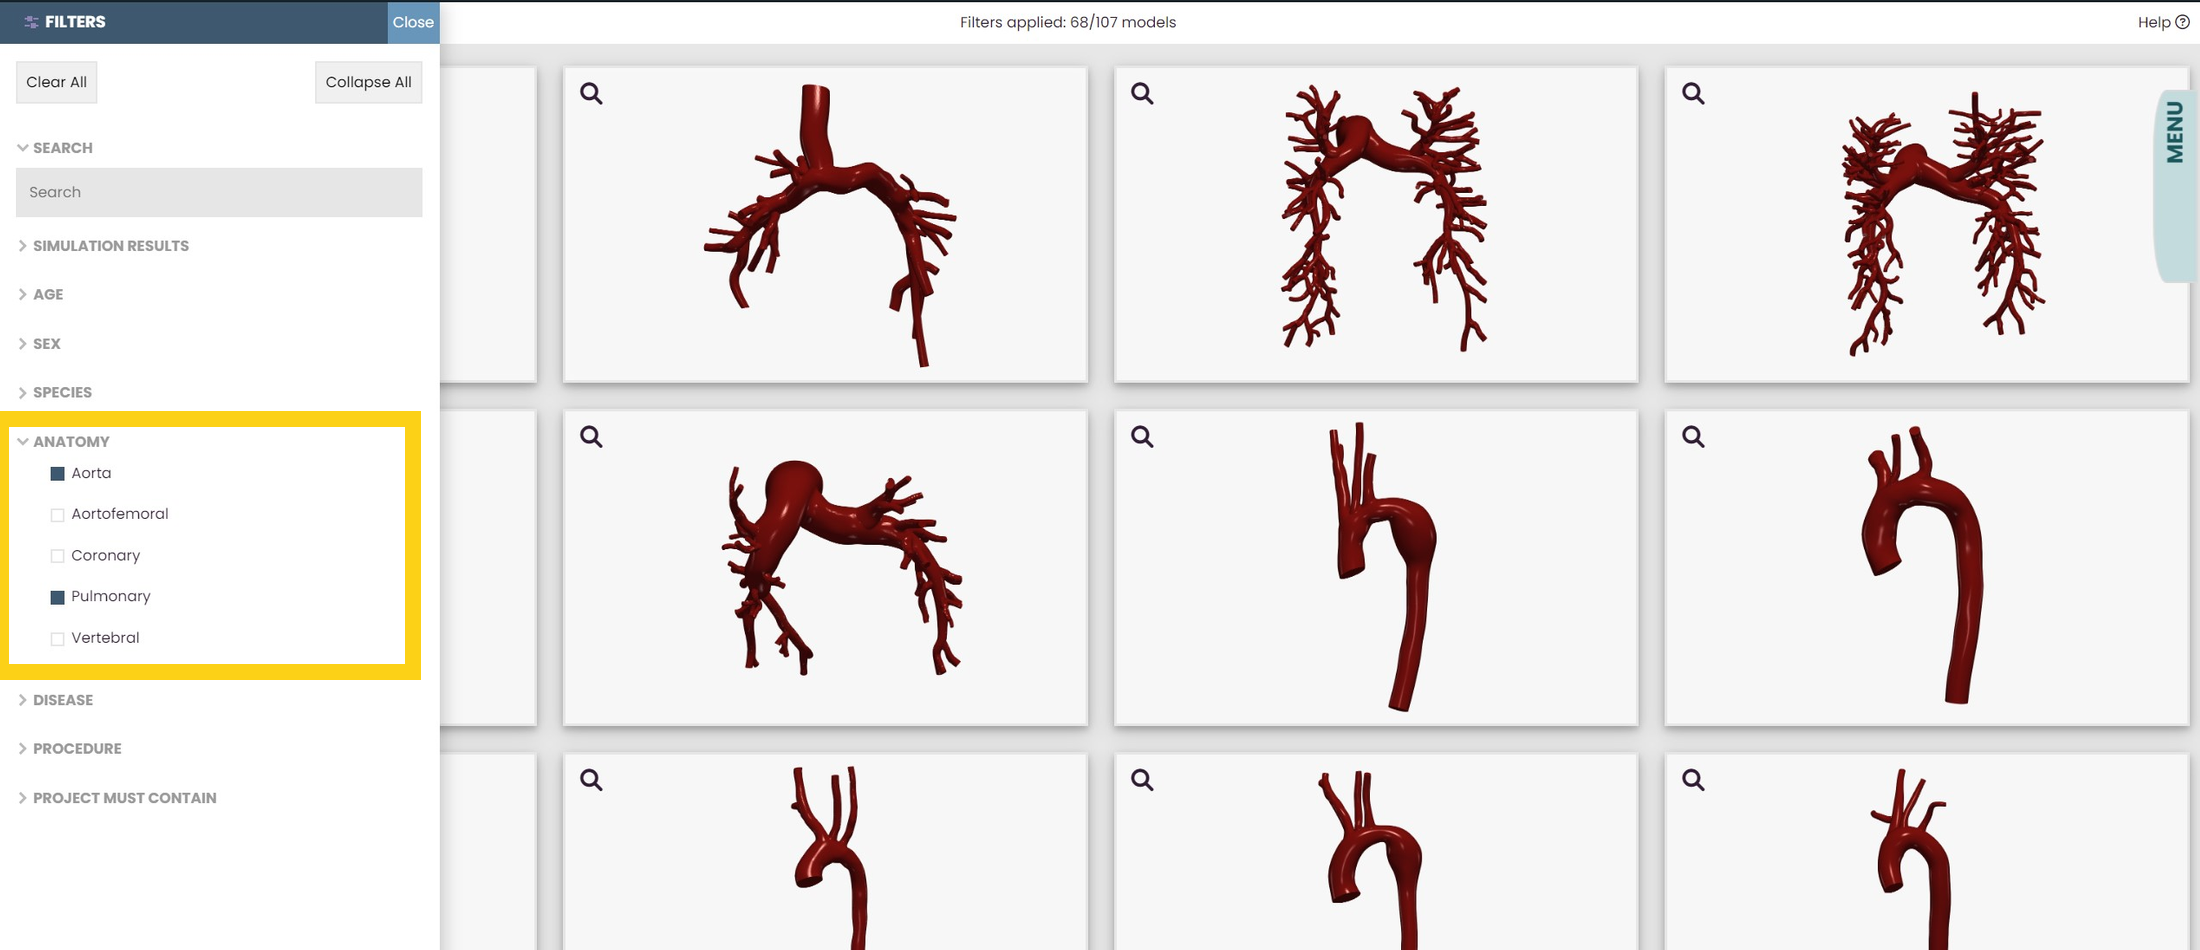
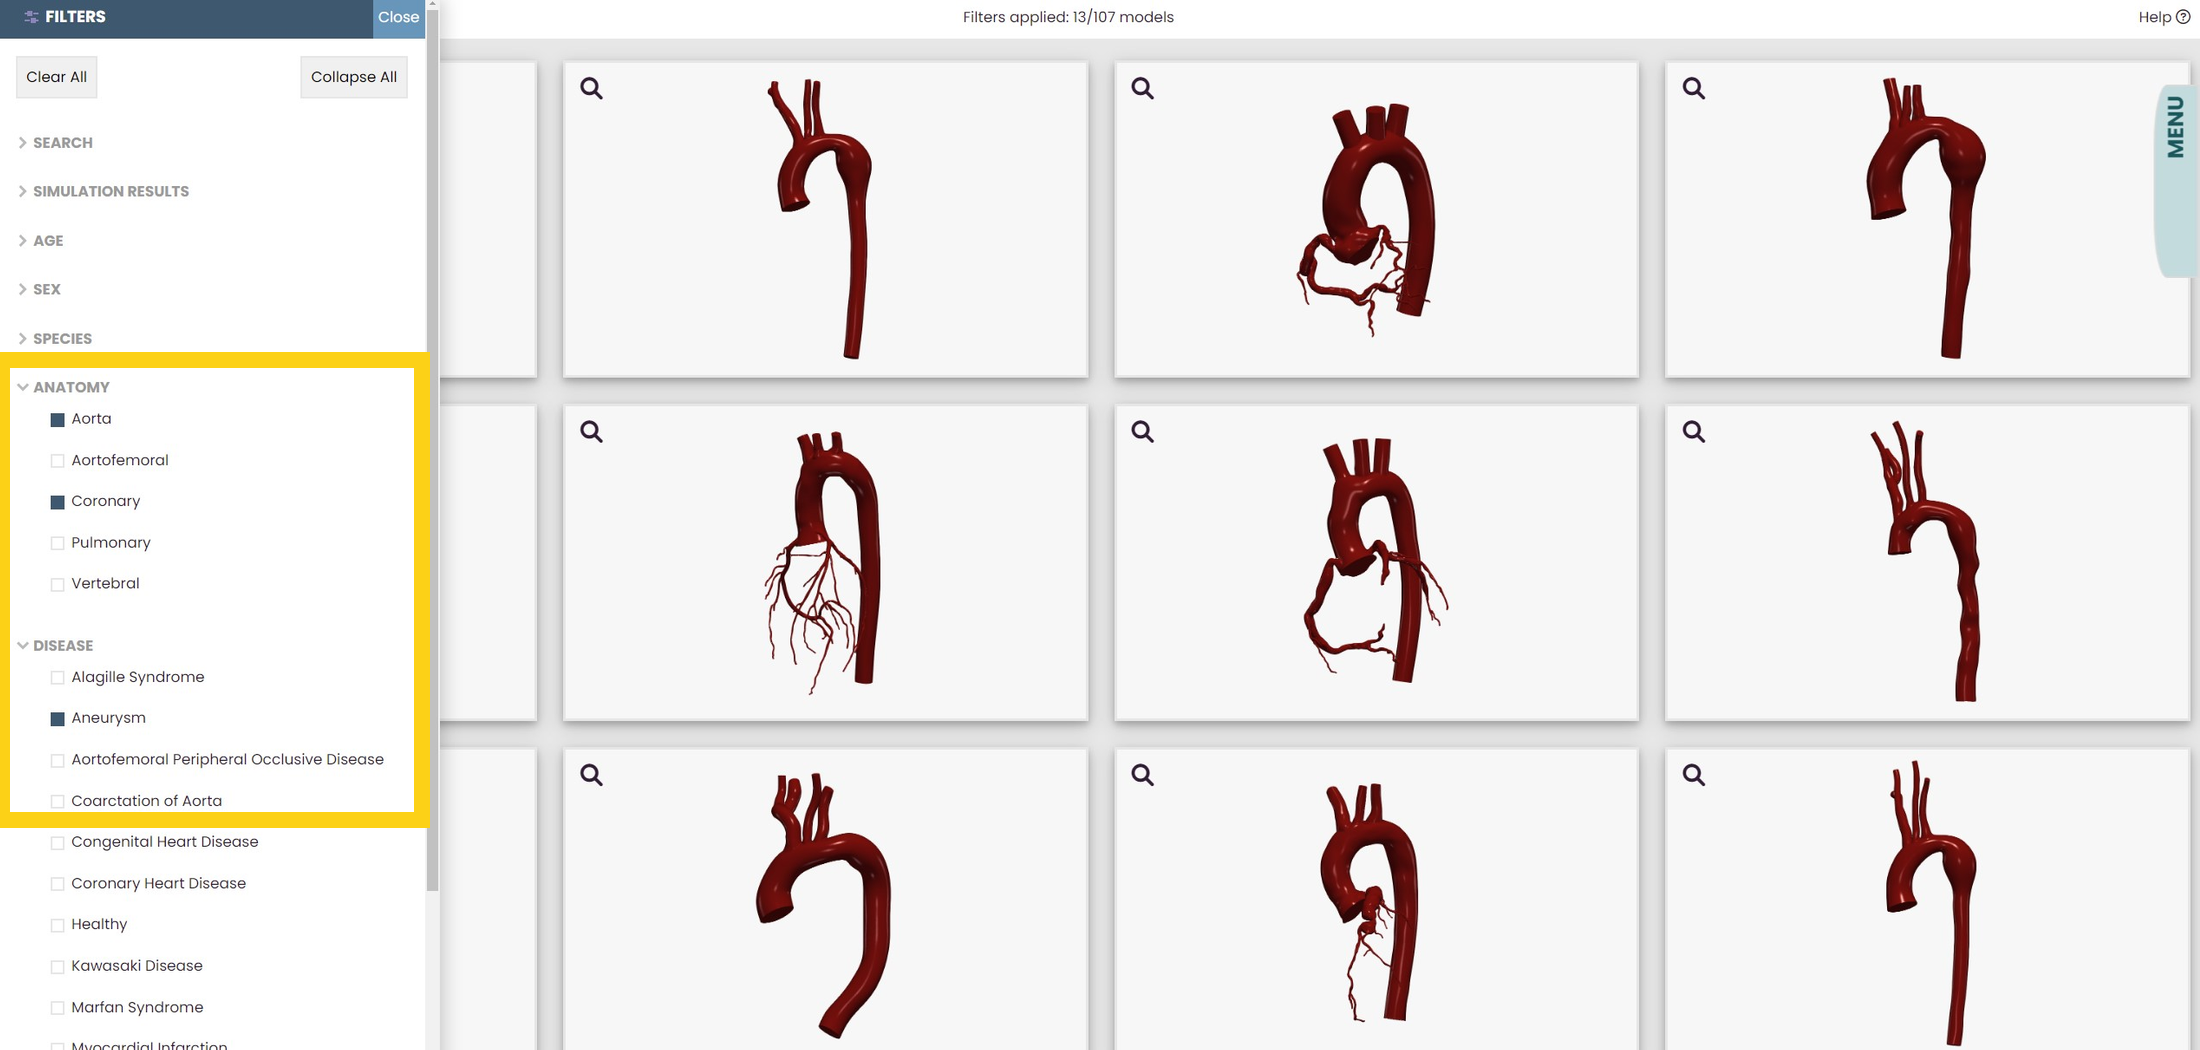
explanation for filters done

Changed region(s): [[0.0, 0.0, 1.0, 1.0], [0.0309, 0.9158, 0.0927, 1.0], [0.9582, 0.2442, 1.0, 0.3053]]

diff --git a/documentation.html b/documentation.html
@@ -100,14 +100,43 @@
   
           <h2 class="title-documentation" id="Using_the_Filters">Using the Filters</h2>
             <h3>Opening the filter menu</h3>
-              <p>Find the word "FILTERS" on the top left of the page and click on it.</p>
-              <img src="img/help/openingPageF.png" alt="Opening Page of Gallery">             
+              <p>To open the filter menu, find the word "FILTERS" on the top left of the page and click on it.</p>
+              <img src="img/help/openingPageF.png" alt="Opening Page of Gallery">
+            <h3>About the filter menu</h3>
+              <h4>The Error Message</h4>
+                <p>If what you are looking for is too specific, an error message may appear. 
+                  If so, it means the specific models you are searching for are not currently avaliable on our repository. 
+                  You may need to enter in fewer specifications into the filter for models to appear in the gallery.</p>
+                <img src="img/help/errorMessageExZ1.jpg" alt="Image of error message.">
+                <img src="img/help/errorMessageExZ2.jpg" alt="Image of what the error message says.">
+                <img src="img/help/errorMessageEx.jpg" alt="Image of how to get an error message.">
+                <p>In the example above, an error message has appeared. This is because the Vascular Model Repository does not currently contain models that are of pulmonary arteries that have undergone the coronary artery bypass graft procedure.</p>
+              <h4>The Clear All Button</h4>
+                <p>If you want to return to the default state of the dataset gallery, click on the Clear All button. It will clear all of the filters that are currently applied.</p>
+                <img src="img/help/clearAllBefore.jpg" alt="Image of what a filled up filter bar looks like.">
+                <img src="img/help/clearAllAfter.jpg" alt="Image of cleared filter bar.">
+              <h4>The Collapse All Button</h4>
+                <p>If you want to collapse all the filter menus, click on the Collapse All Button. It will do so. Clicking this button, however, will not clear the filters that are applied.</p>
+                <img src="img/help/collapseAllBefore.jpg" alt="Image of a filled up filter bar">
+                <img src="img/help/collapseAllAfter.jpg" alt="Image of a collaped filter bar">
+                <p>In the example above, the collapse all button has been pressed, which collapses all the filter headers. The filters remain applied.</p>
             <h3>Looking at the different categories</h3>
               <h4>The Search Bar</h4>
                 <p>With the search bar, you are able to search for specific models. To search for multiple characteristics, add a space between each characteristic. To apply the filter, write in an entry and hit the ENTER key.</p>
                 <img src="img/help/searchBarExZ.jpg" alt="Example of what a search looks like in the search bar">
                 <img src="img/help/searchBarEx.jpg" alt="Full screen of what a search looks like with the search bar">
                 <p>In the example above, the models that are a result of the search bar entry are all male models of aortas that have aneurysms.</p>
+                <p>If you are looking for one specific model, you can search for the name of the model in the search bar.</p>
+              <h4>The Simulation Results Filter</h4>
+                <p>We have ran simulations for some of the models in this repository. They come in <code>.vtu</code> and <code>.vtp</code> files. 
+                  This filter allows you to search for those models.</p>
+                <img src="img/help/simResultsDefault.jpg" alt="Image of default state of simulation results button.">
+                <p>Above is what the default for the simulation results button is. In this state, no models are being filtered for simulation results.</p>
+                <p>To apply this filter, click on the mode you want to be in. If "MUST HAVE" is showing, you are filtering for the models that have simulation results. 
+                  If "OPTIONAL" is showing, you are not filtering for simulation results.</p>
+                <img src="img/help/simResultsApplied.jpg" alt="Image of applied state of simulation results button.">
+                <img src="img/help/simResultsEx.jpg" alt="Image of what gallery looks like with simulation results selected.">
+                <p>In the example above, the models that are the result of clicking the simulation results button have downloadable <code>.vtu</code> and <code>.vtp</code> files. </p>
               <h4>The Age Filter</h4>
                 <p>With the filter for age, you are able to search within an age range. The current minimum for the filter is 0 years of age, and the current maximum is 120 years.</p>
                 <img src="img/help/ageG.jpg" alt="Image of what the age filter looks like.">
@@ -133,10 +162,20 @@
                 <p>In the example above, the models that are a result of the checkbox entries are of aortas.</p>
                 <p>Some models check off more than one box per category. However, selecting more than one option under a category will return the union of those entries. 
                   To search for models that specifically have 2+ entries under one category, you will find the search bar to be more helpful.</p>
+                <p>Between categories (such as "Anatomy" and "Disease"), the checkboxes act as an intersection of the entries.</p>
                 <img src="img/help/checkboxUnionExZ.jpg" alt="Image of what applying multiple checkboxes under one category looks like.">
                 <img src="img/help/checkboxUnionEx.jpg" alt="Image of what the gallery looks like with given filters">
-                <p>In the example above, the models that are a result of the checkbox entries are either of aortas, pulmonary models, or both, if it were possible.</p>
-          <h2 class="title-documentation" id="Using_the_Menu_Bar">Using the Menu Bar</h2>
+                <p>In the example above, the models that are a result of the checkbox entries are either of aortas with aneurysm(s) or of coronary arteries with aneurysm(s).</p>
+              <h4>The Project Must Contain Filter</h4>
+                <p>A few models do not contain certain files. With the Project Must Contain filter, you are able to filter through the models that have the files you are looking to download.</p>
+                <p>Unlike the filter above, these checkboxes act as intersections. To apply the filters, click or unclick a checkbox.</p>
+                <img src="img/help/mustContainExZ.jpg" alt="Image of what applied project must contain filter looks like.">
+                <img src="img/help/mustContainEx.jpg" alt="Image of what applied project must contain filter looks like in the gallery.">
+                <p>In the example above, the models that are a result of the project must contain entries all contain both "Paths" and "Simulations" file.</p>
+              <h4>Summary</h4>
+                <p>There are different ways to find what you are searching for in the Vascular Model Repository. If you are looking for a specific model, the search bar is the most effective. 
+                  If you are looking for models in specific categories, the other forms of filters will be the most helpful.</p>
+                <h2 class="title-documentation" id="Using_the_Menu_Bar">Using the Menu Bar</h2>
           <p>*description*</p>
   
           <h2 class="title-documentation" id ="Sharing_Models">Sharing Models</h2>

diff --git a/css/style_documentation.css b/css/style_documentation.css
@@ -83,10 +83,10 @@ img {
     height: 100%;
     width: 100%;
     max-width: 750px;
+    max-height: 750px;
     object-fit: contain;
     margin-bottom: 10px;
     position: relative;
-    display: block;
 }
 
 .column {
